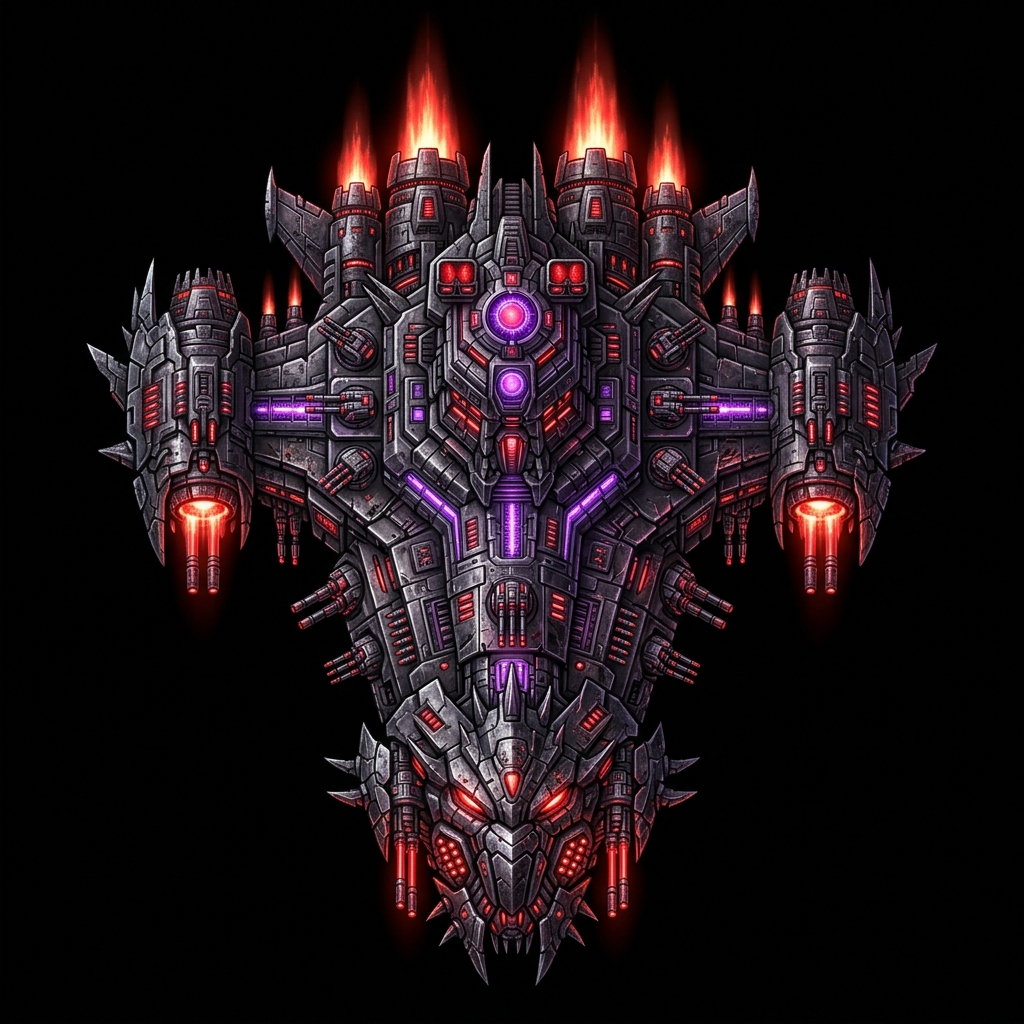
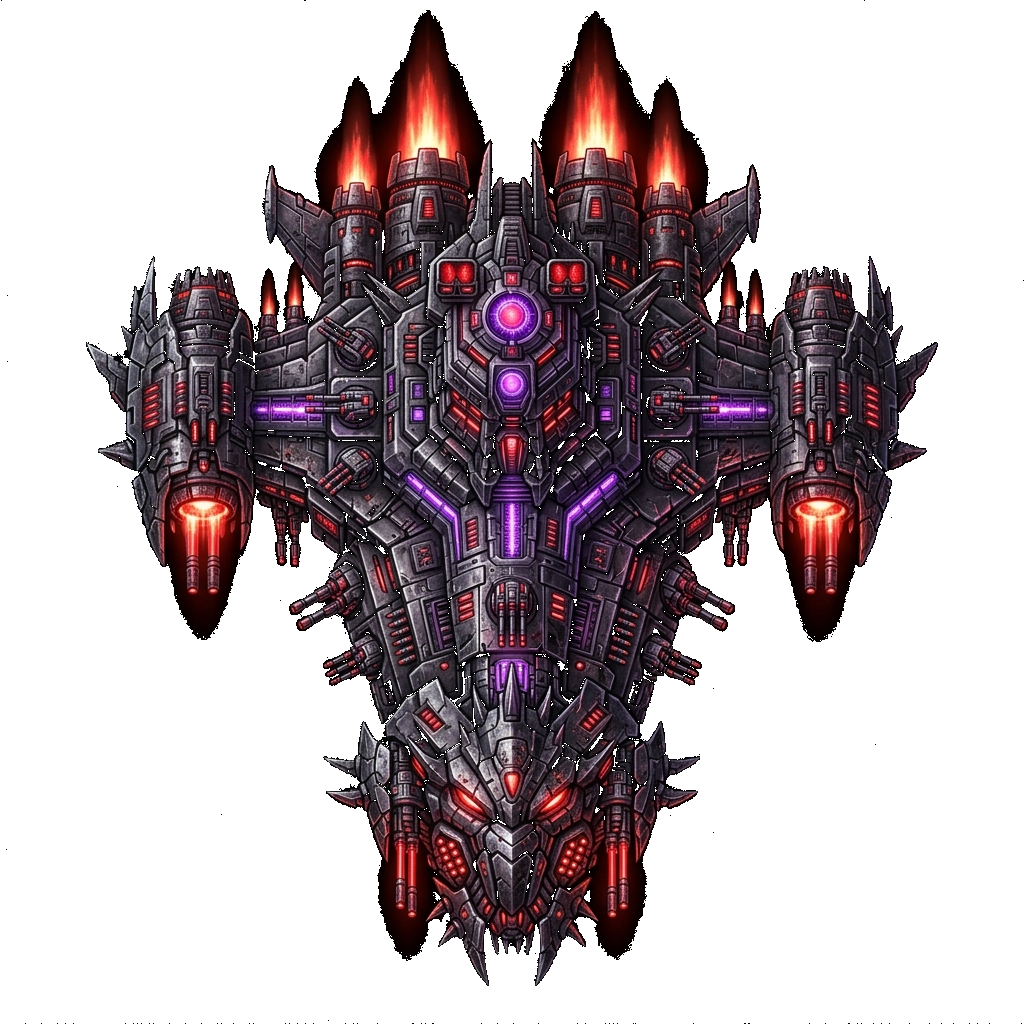
feat: add script to remove black backgrounds from game assets and import character sprites

diff --git a/remove_bg.py b/remove_bg.py
@@ -1,0 +1,36 @@
+from PIL import Image
+import sys
+import os
+
+def remove_black_background(file_path):
+    if not os.path.exists(file_path):
+        print(f"File not found: {file_path}")
+        return
+
+    try:
+        img = Image.open(file_path).convert("RGBA")
+        datas = img.getdata()
+
+        newData = []
+        for item in datas:
+            # If the pixel is pure black or extremely dark, make it transparent
+            if item[0] < 5 and item[1] < 5 and item[2] < 5:
+                newData.append((255, 255, 255, 0))
+            else:
+                newData.append(item)
+
+        img.putdata(newData)
+        img.save(file_path, "PNG")
+        print(f"Processed {file_path}")
+    except Exception as e:
+        print(f"Error processing {file_path}: {e}")
+
+files_to_process = [
+    r"c:\wndr\repo\spaceinvasion\public\ship.png",
+    r"c:\wndr\repo\spaceinvasion\public\ship_side.png",
+    r"c:\wndr\repo\spaceinvasion\public\enemy.png",
+    r"c:\wndr\repo\spaceinvasion\public\boss.png"
+]
+
+for f in files_to_process:
+    remove_black_background(f)
